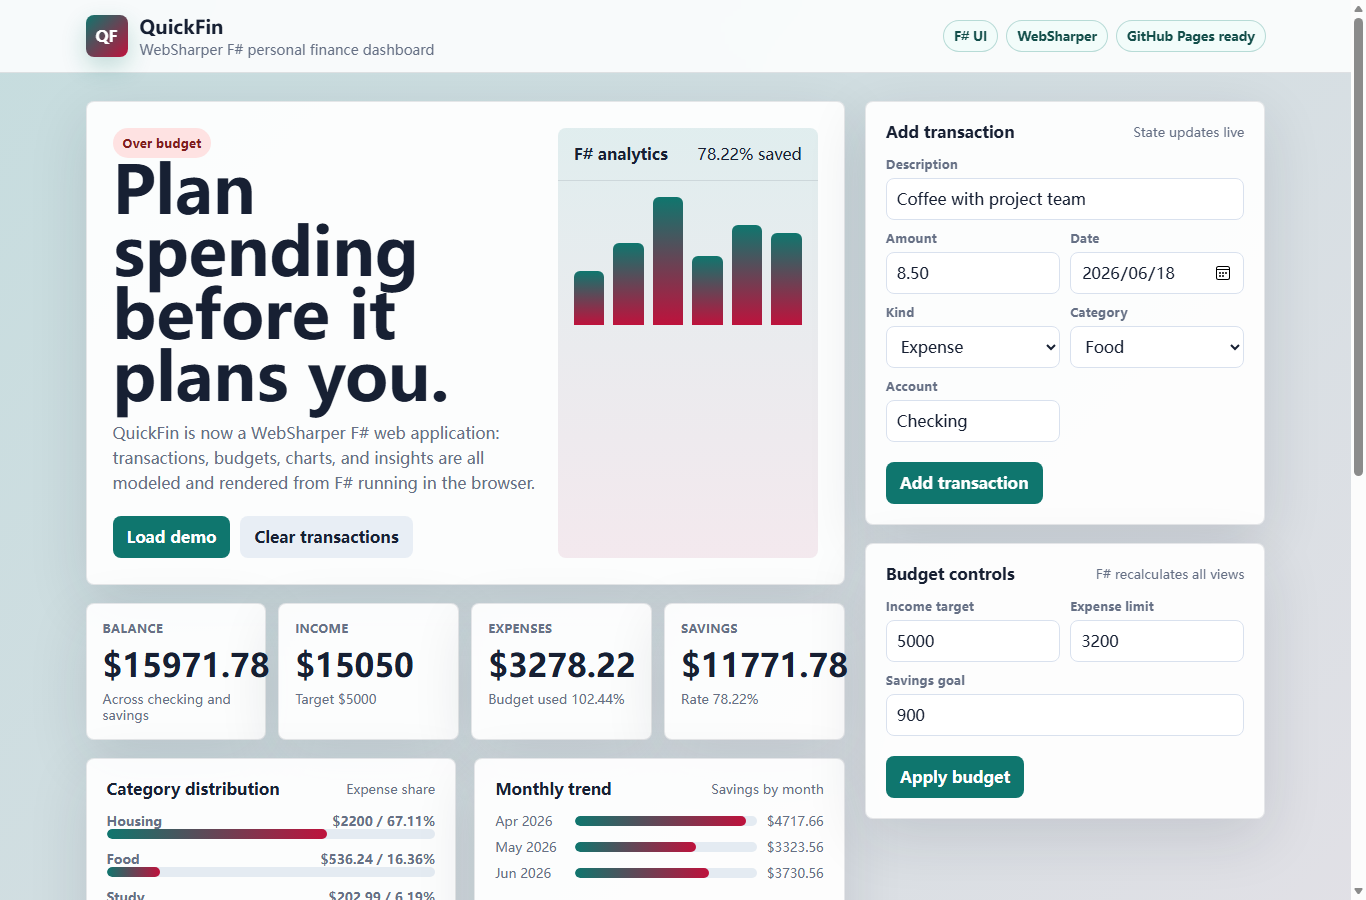
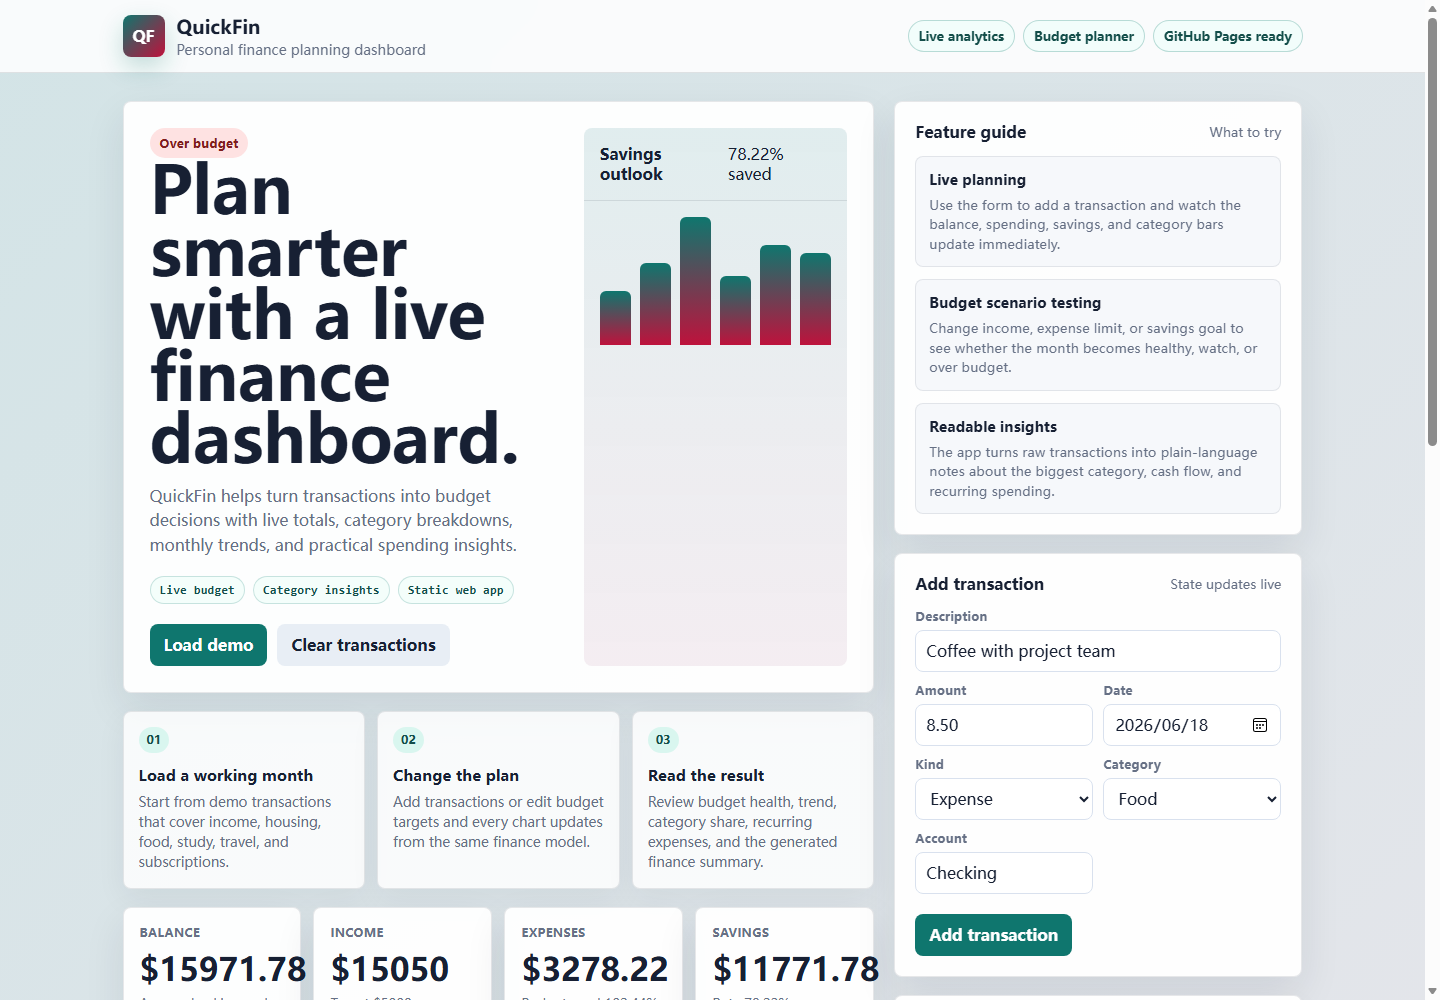
Refine QuickFin presentation and docs

diff --git a/fsharp-src/Main.html b/fsharp-src/Main.html
@@ -4,7 +4,7 @@
     <meta charset="utf-8" />
     <meta name="viewport" content="width=device-width, initial-scale=1.0" />
     <title>${Title}</title>
-    <meta name="description" content="QuickFin, a WebSharper F# personal finance dashboard." />
+    <meta name="description" content="QuickFin, a personal finance planning dashboard." />
     <style>
         :root {
             color-scheme: light;
@@ -13,11 +13,12 @@
             --line: #d9e1ee;
             --surface: #ffffff;
             --panel: #f6f8fb;
+            --panel-strong: #edf3f7;
             --brand: #0f766e;
             --brand-strong: #134e4a;
             --accent: #be123c;
             --gold: #a16207;
-            --shadow: 0 18px 60px rgba(23, 32, 51, 0.12);
+            --shadow: 0 16px 42px rgba(23, 32, 51, 0.09);
         }
 
         * {
@@ -46,7 +47,7 @@
         .app-shell {
             min-height: 100vh;
             background:
-                linear-gradient(135deg, rgba(15, 118, 110, 0.18), rgba(190, 18, 60, 0.08)),
+                linear-gradient(135deg, rgba(15, 118, 110, 0.12), rgba(190, 18, 60, 0.06)),
                 #eef3f7;
         }
 
@@ -120,14 +121,20 @@
             margin: 0 auto;
             padding: 28px 0 42px;
             display: grid;
-            grid-template-columns: minmax(0, 1.8fr) minmax(320px, 0.95fr);
+            grid-template-columns: minmax(0, 1.75fr) minmax(330px, 0.95fr);
             gap: 20px;
+        }
+
+        .side-stack {
+            display: grid;
+            align-content: start;
+            gap: 18px;
         }
 
         .panel {
             border: 1px solid rgba(23, 32, 51, 0.1);
             border-radius: 8px;
-            background: rgba(255, 255, 255, 0.93);
+            background: rgba(255, 255, 255, 0.95);
             box-shadow: var(--shadow);
         }
 
@@ -138,8 +145,8 @@
         .hero {
             padding: 26px;
             display: grid;
-            grid-template-columns: minmax(0, 1.3fr) minmax(260px, 0.7fr);
-            gap: 18px;
+            grid-template-columns: minmax(0, 1.22fr) minmax(260px, 0.78fr);
+            gap: 22px;
             align-items: stretch;
         }
 
@@ -156,6 +163,31 @@
             color: var(--muted);
             font-size: 1rem;
             line-height: 1.55;
+        }
+
+        .source-tags,
+        .code-row {
+            display: flex;
+            flex-wrap: wrap;
+            gap: 8px;
+        }
+
+        .source-tags {
+            margin-top: 18px;
+        }
+
+        .code-pill {
+            display: inline-flex;
+            align-items: center;
+            min-height: 28px;
+            border: 1px solid rgba(15, 118, 110, 0.2);
+            border-radius: 999px;
+            padding: 5px 9px;
+            color: var(--brand-strong);
+            background: rgba(240, 253, 250, 0.74);
+            font-family: ui-monospace, SFMono-Regular, Consolas, "Liberation Mono", monospace;
+            font-size: 0.78rem;
+            font-weight: 800;
         }
 
         .hero-actions {
@@ -178,6 +210,10 @@
             background: var(--brand);
         }
 
+        .button:active {
+            transform: translateY(1px);
+        }
+
         .button.secondary {
             color: var(--ink);
             background: #e8eef5;
@@ -192,7 +228,7 @@
             border-radius: 8px;
             overflow: hidden;
             background:
-                linear-gradient(180deg, rgba(15, 118, 110, 0.1), rgba(190, 18, 60, 0.08)),
+                linear-gradient(180deg, rgba(15, 118, 110, 0.1), rgba(190, 18, 60, 0.06)),
                 #f8fbfd;
             display: grid;
             grid-template-rows: auto 1fr;
@@ -220,6 +256,47 @@
             border-radius: 6px 6px 0 0;
             background: linear-gradient(180deg, var(--brand), var(--accent));
             min-height: 26px;
+        }
+
+        .workflow-steps {
+            margin-top: 18px;
+            display: grid;
+            grid-template-columns: repeat(3, minmax(0, 1fr));
+            gap: 12px;
+        }
+
+        .step-card {
+            min-height: 150px;
+            border: 1px solid rgba(23, 32, 51, 0.1);
+            border-radius: 8px;
+            padding: 15px;
+            background: rgba(255, 255, 255, 0.82);
+            box-shadow: 0 10px 30px rgba(23, 32, 51, 0.06);
+        }
+
+        .step-card span {
+            display: inline-flex;
+            align-items: center;
+            min-height: 26px;
+            border-radius: 999px;
+            padding: 4px 8px;
+            color: var(--brand-strong);
+            background: #d9f6ef;
+            font-size: 0.75rem;
+            font-weight: 900;
+        }
+
+        .step-card strong {
+            display: block;
+            margin-top: 12px;
+            font-size: 0.96rem;
+        }
+
+        .step-card p {
+            margin: 8px 0 0;
+            color: var(--muted);
+            font-size: 0.86rem;
+            line-height: 1.45;
         }
 
         .summary-grid {
@@ -317,6 +394,55 @@
         select:focus {
             outline: 3px solid rgba(15, 118, 110, 0.14);
             border-color: var(--brand);
+        }
+
+        .guide-list,
+        .implementation-list {
+            display: grid;
+            gap: 12px;
+        }
+
+        .guide-item,
+        .implementation-item {
+            border: 1px solid rgba(23, 32, 51, 0.09);
+            border-radius: 8px;
+            padding: 13px;
+            background: var(--panel);
+        }
+
+        .guide-item strong,
+        .implementation-item strong {
+            display: block;
+            font-size: 0.9rem;
+        }
+
+        .guide-item p,
+        .implementation-item p {
+            margin: 6px 0 0;
+            color: var(--muted);
+            font-size: 0.84rem;
+            line-height: 1.45;
+        }
+
+        .implementation-item {
+            display: grid;
+            gap: 10px;
+        }
+
+        .report-box {
+            min-height: 210px;
+            max-height: 280px;
+            overflow: auto;
+            margin: 0;
+            border: 1px solid rgba(23, 32, 51, 0.1);
+            border-radius: 8px;
+            padding: 13px;
+            color: #243044;
+            background: var(--panel-strong);
+            font-family: ui-monospace, SFMono-Regular, Consolas, "Liberation Mono", monospace;
+            font-size: 0.78rem;
+            line-height: 1.65;
+            white-space: pre-wrap;
         }
 
         .transaction-list {
@@ -471,7 +597,8 @@
         @media (max-width: 980px) {
             .layout,
             .hero,
-            .grid-two {
+            .grid-two,
+            .workflow-steps {
                 grid-template-columns: 1fr;
             }
 

diff --git a/FEATURES.md b/FEATURES.md
@@ -1,0 +1,70 @@
+# QuickFin Feature Walkthrough
+
+This document is written for a quick project review. It explains what the application does, how to try the main flows, and where the F# implementation appears in the code.
+
+## What the App Does
+
+QuickFin is a browser-based personal finance dashboard for planning a monthly budget. A user can load a realistic demo month, add new transactions, adjust budget targets, and immediately see how the financial picture changes.
+
+The application focuses on four practical questions:
+
+- How much money is available after income and expenses?
+- Which categories are driving spending?
+- Is the monthly budget healthy or already over limit?
+- What does the transaction history suggest about recurring or unusually large expenses?
+
+## Main User Flows
+
+### 1. Start from a working month
+
+The `Load demo` action restores a sample data set with accounts, income, rent, groceries, travel, study expenses, health, entertainment, and subscription spending. This gives the reviewer a complete state to inspect without entering data first.
+
+### 2. Add a transaction
+
+Use the `Add transaction` panel to enter a description, amount, date, transaction kind, category, and account. After pressing `Add transaction`, the dashboard updates the balance, totals, budget status, charts, insights, and ledger without a page reload.
+
+### 3. Test a budget scenario
+
+Use `Budget controls` to edit the income target, expense limit, and savings goal. The budget status changes between healthy, watch, and over budget according to the F# calculation rules.
+
+### 4. Read the generated analysis
+
+The dashboard includes category distribution, monthly trend, smart insights, and a generated summary panel. The generated summary is useful for checking that the finance engine is producing coherent text output from the same transaction model used by the UI.
+
+## Where F# Is Used
+
+QuickFin is not a JavaScript-first app with a small F# helper. The main web application is authored in F# and compiled to browser JavaScript by WebSharper.
+
+| Area | F# evidence |
+|---|---|
+| Domain model | `fsharp-src/Domain.fs` defines transactions, accounts, budgets, categories, summaries, insights, and demo data as F# records and discriminated unions. |
+| Finance logic | `FinanceEngine` in `Domain.fs` calculates income, expenses, savings rate, budget usage, category breakdowns, monthly trends, largest expenses, recurring candidates, and summary text. |
+| Browser UI | `fsharp-src/Client.fs` renders the dashboard using WebSharper UI elements, `Var<DashboardModel>` state, `Doc.BindView`, and F# event handlers. |
+| Web app entry | `fsharp-src/Main.fs` defines the WebSharper HTML application and routes the generated page. |
+| Static deployment | `wsconfig.json`, `package.json`, and `esbuild.config.mjs` compile and bundle the F# WebSharper output into `fsharp-src/build/` for GitHub Pages. |
+
+## How to Review the F# Web App
+
+1. Open the live GitHub Pages link from `README.md`.
+2. Press `Load demo`.
+3. Add a transaction such as `Bus pass`, `42.50`, `Expense`, `Travel`.
+4. Change the expense limit in `Budget controls`.
+5. Check that the summary cards, category chart, trend chart, smart insights, ledger, and generated summary all update together.
+6. Compare the behavior with `Domain.fs` and `Client.fs` to see the F# model, calculations, and browser UI implementation.
+
+## Build Output
+
+The release build command is:
+
+```bash
+cd fsharp-src
+dotnet build QuickFinCore.fsproj -c Release
+```
+
+The deployable static site is generated at:
+
+```text
+fsharp-src/build/
+```
+
+GitHub Actions runs the same build and deploys that generated directory to GitHub Pages.

diff --git a/README.md b/README.md
@@ -1,6 +1,6 @@
-# QuickFin - WebSharper F# Finance Dashboard
+# QuickFin - Personal Finance Planning Dashboard
 
-QuickFin is a client-only personal finance web application built with F# and WebSharper. The browser UI, reactive state, transaction model, budget calculations, charts, and financial insights are authored in F# under `fsharp-src/` and compiled to JavaScript for GitHub Pages.
+QuickFin is a client-only personal finance web application for planning a monthly budget, reviewing expenses, and turning transaction history into useful spending insights. The app runs as a static site on GitHub Pages, with the application logic and browser UI authored in F# under `fsharp-src/` and compiled for the browser with WebSharper.
 
 ## Motivation
 
@@ -10,14 +10,17 @@ The project was rebuilt as a WebSharper F# web app so the submitted application 
 
 ## Features
 
-- Reactive F# dashboard state with `Var<DashboardModel>` and live recomputation.
+- Reactive dashboard state with live recomputation.
 - Transaction entry with date, account, kind, category, and amount.
 - Budget controls for income target, expense limit, and savings goal.
 - Summary cards for balance, income, expenses, savings, savings rate, and budget usage.
 - Category distribution bars generated from expense data.
 - Monthly savings trend calculated from transaction history.
 - Smart insights for budget health, savings rate, largest category, largest expense, and recurring expenses.
+- In-app feature guide, implementation notes, and generated finance summary for reviewers.
 - Responsive WebSharper UI compiled to a static site for GitHub Pages.
+
+For a reviewer-friendly walkthrough of the main flows and F# implementation, see [`FEATURES.md`](FEATURES.md).
 
 ## Try Live
 
@@ -66,17 +69,17 @@ http://localhost:8080/
 | `fsharp-src/Main.html` | HTML/CSS template used by WebSharper |
 | `fsharp-src/esbuild.config.mjs` | Bundles WebSharper output into the static `all.js` used by GitHub Pages |
 
-## Requirement Coverage
+## Implementation Notes
 
-| Requirement | Evidence |
-|---|---|
-| Public repository | GitHub repository under `shaoying888/QuickFin-Dashboard-1259278462` |
-| Web application | WebSharper F# static web app in `fsharp-src/` |
-| F# implementation | `Domain.fs`, `Client.fs`, and `Main.fs` contain the authored F# application logic and UI |
-| Online demo | GitHub Pages link in the Try Live section |
-| Automatic deployment | `.github/workflows/deploy.yml` builds the F# WebSharper app and deploys `fsharp-src/build` |
-| README | Project motivation, features, build/run instructions, screenshot, and live link are documented here |
-| Screenshot | Included below as `screenshot.png` |
+QuickFin is delivered as a static web application, but it is not a hand-written JavaScript frontend. WebSharper compiles the F# modules into browser JavaScript, and the generated bundle is what runs on GitHub Pages.
+
+The clearest files to review are:
+
+- `Domain.fs`, for the typed data model and finance calculations.
+- `Client.fs`, for the browser UI, reactive state, forms, charts, and event handlers.
+- `Main.fs`, for the WebSharper application entry point.
+
+The GitHub Actions workflow builds the F# project in Release mode and deploys the generated `fsharp-src/build/` directory.
 
 ## Screenshot
 